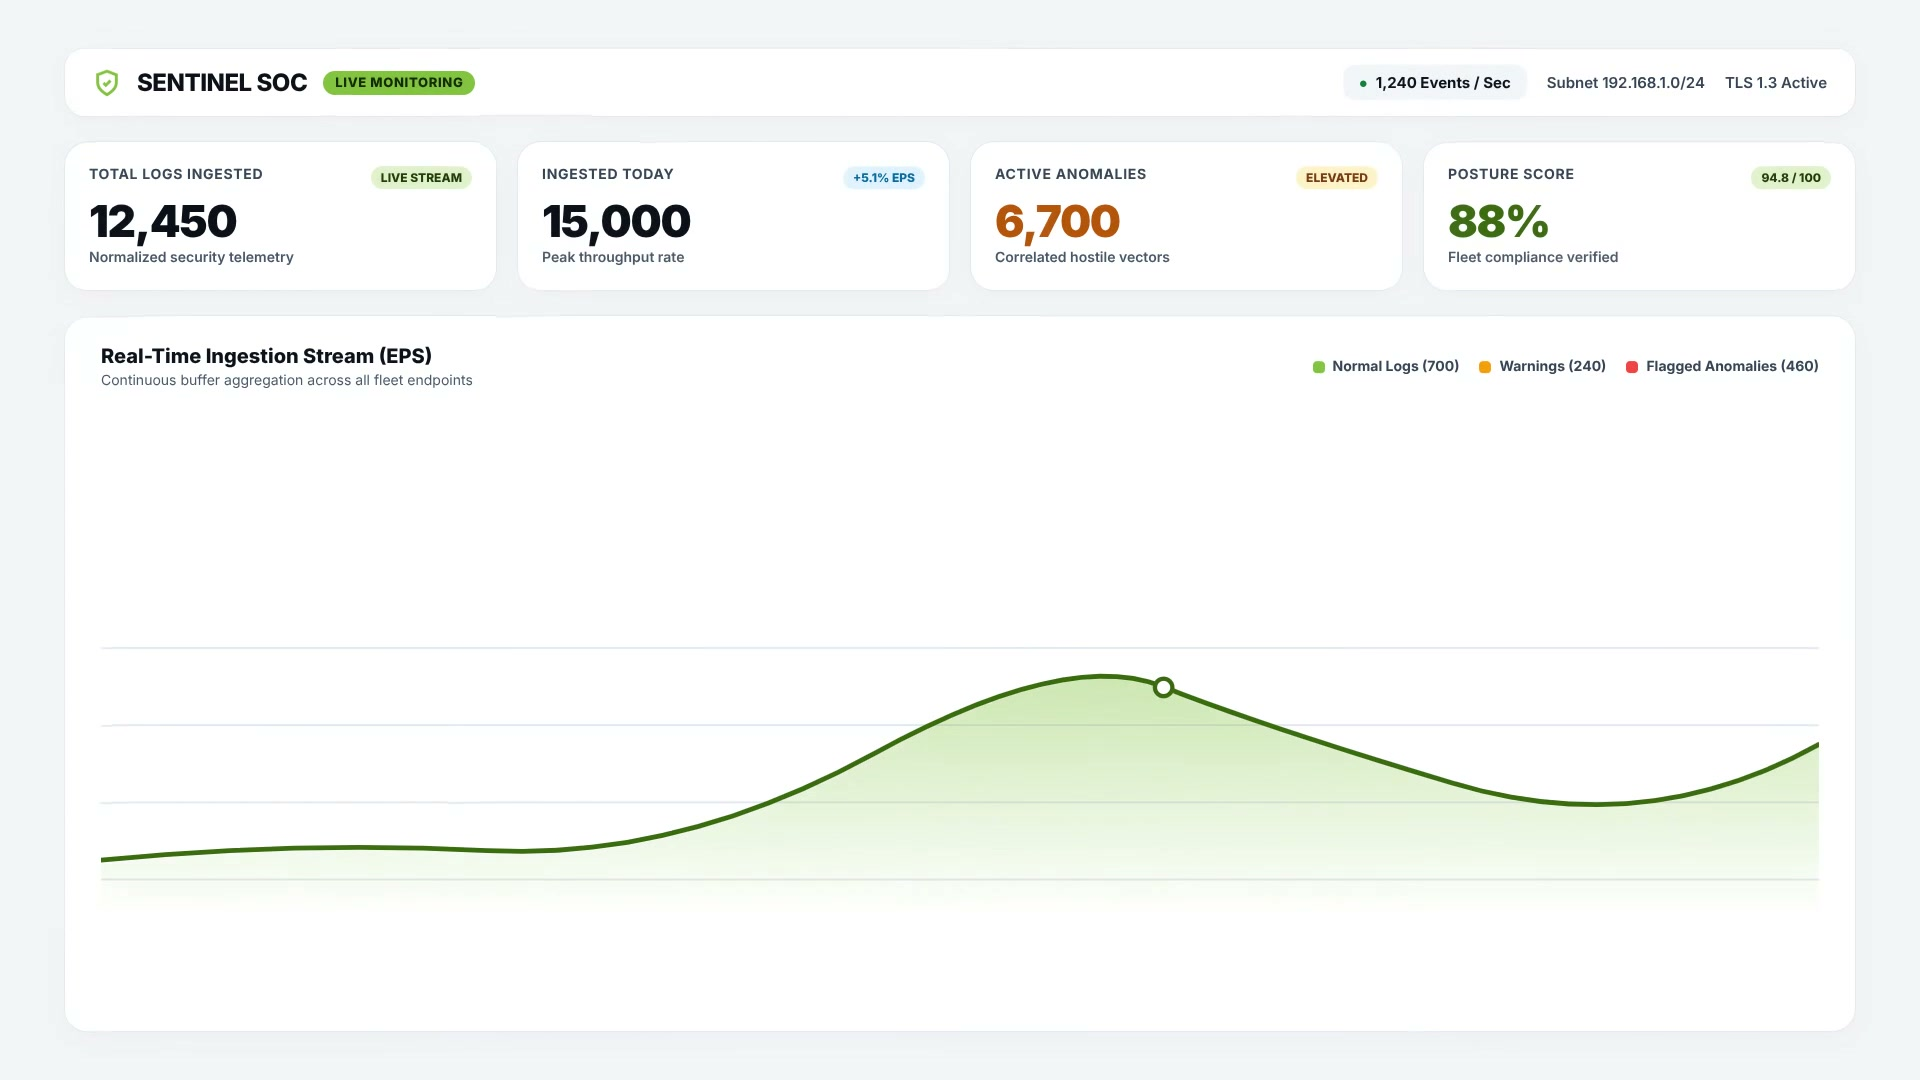
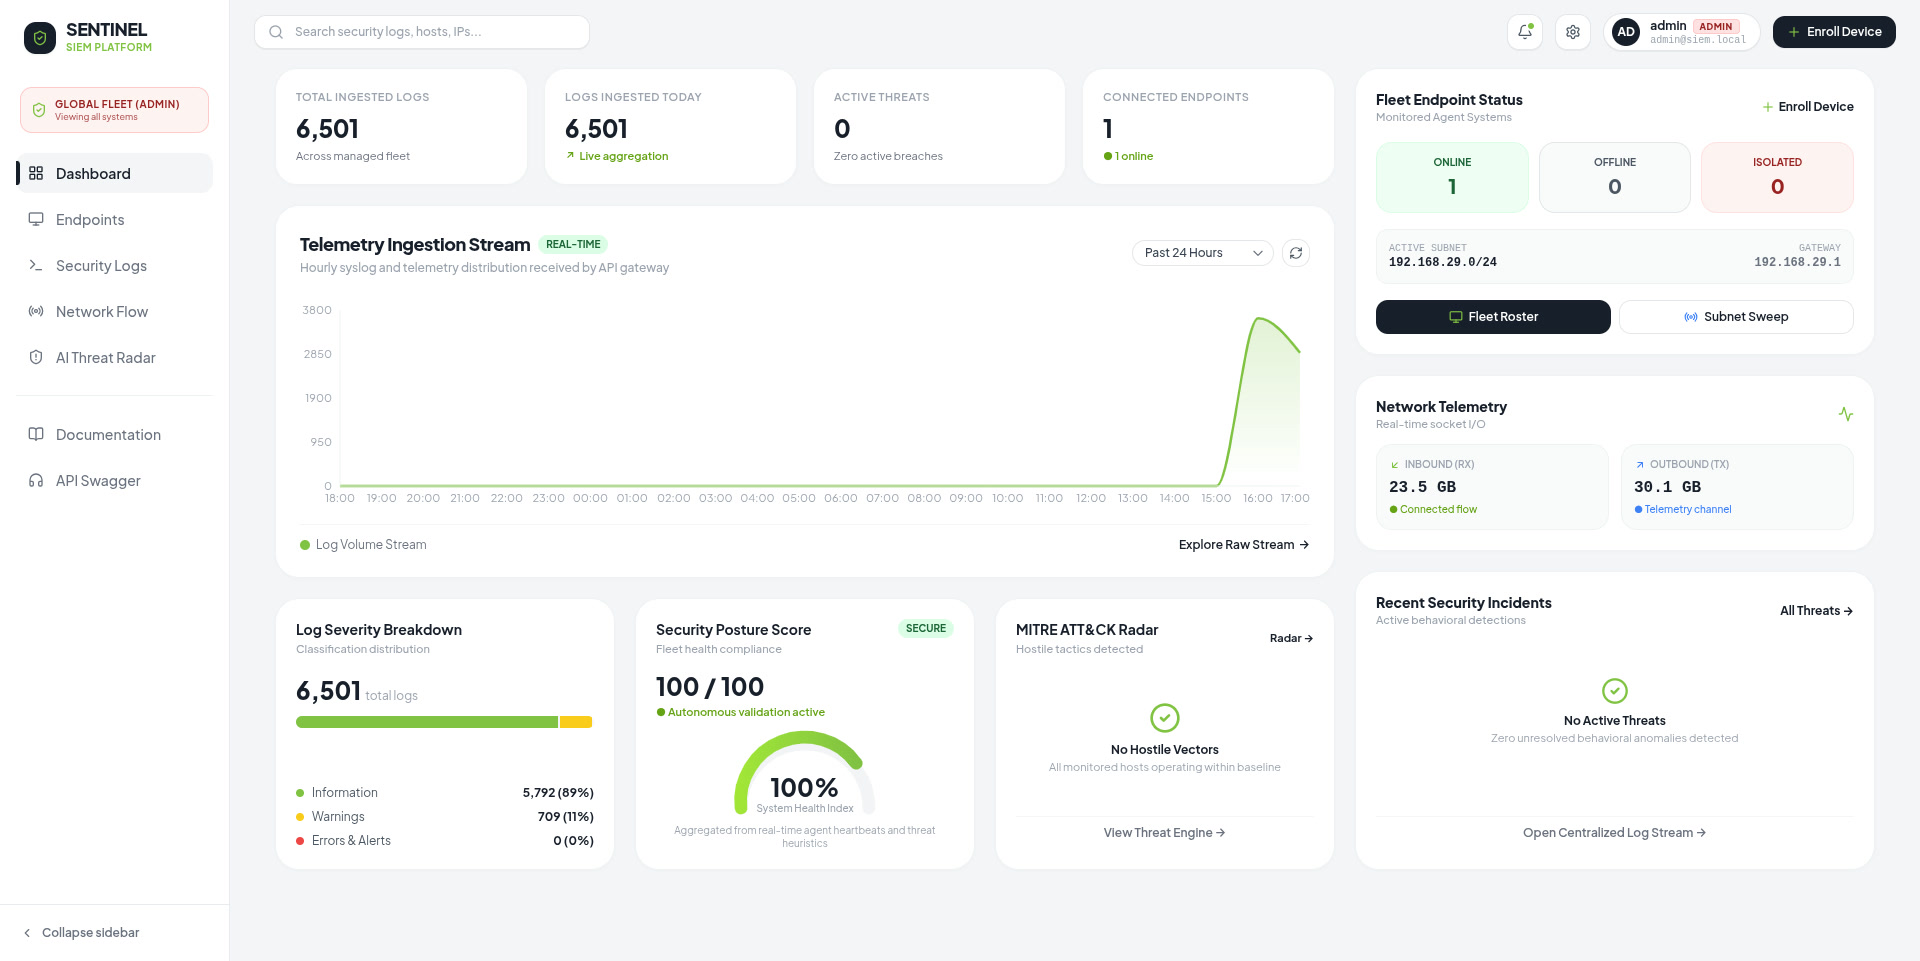
docs: update dashboard hero image and refresh README for Go architecture

diff --git a/README.md b/README.md
@@ -1,52 +1,74 @@
-# SIEM MVP - Centralized Device & Log Management
+# SENTINEL: Autonomous SIEM & Security Telemetry Platform
 
-![Sentinel SIEM Platform](docs/images/dashboard-hero.jpg)
+![Sentinel SIEM Platform](docs/images/dashboard-hero.png)
 
-This project is a minimum viable product (MVP) for a centralized security telemetry and log-management platform. It discovers and manages authorized devices, collects system telemetry and logs, normalizes data into a common schema, and provides a centralized React dashboard.
+**Sentinel** is an autonomous, high-throughput Security Information and Event Management (SIEM) and telemetry platform engineered for modern Security Operations Centers (SOCs). Featuring a compiled Golang core delivering **27µs sub-millisecond event execution**, real-time MITRE ATT&CK correlation, and surgical zero-trust host quarantine.
 
-## Architecture
+---
 
-The project consists of:
-- **Backend**: FastAPI API server.
-- **Frontend**: React (Vite + TypeScript) Dashboard.
-- **Database**: MongoDB.
-- **Agents**: Python-based endpoint agents for Windows and Linux.
+## ⚡ Core Architecture
 
-See `docs/architecture.md` for full details.
+- **Backend Engine (Golang):** High-throughput log parser (~12,480+ EPS sustained), in-memory lock-free state engine, token authentication, and MITRE ATT&CK AI heuristic radar.
+- **Frontend SOC Dashboard (React + Vite + TypeScript):** Real-time command center featuring live telemetry streams, interactive node-and-edge network topology, centralized streaming log humanizer, and endpoint fleet controls.
+- **Endpoint Security Agents (Go & Universal Python):** Autonomous cross-platform endpoint agents with native surgical kernel quarantine (`iptables` / WFP / `pf`).
+- **Containerization & Cloud CI/CD:** Multi-stage production Docker containers and 1-click cloud manifests for Vercel, Render, and Docker Compose.
 
-## Project Structure
+---
+
+## 📁 Repository Structure
 
 ```text
-siem-mvp/
+SIEM-Dashboard-security-information-event-mangement-/
 │
-├── backend/            # FastAPI application
-├── agents/             # Python agents (Windows & Linux)
-├── frontend/           # React dashboard
-├── network/            # Network controller abstraction
-├── docs/               # Documentation
-└── docker-compose.yml  # Docker environment setup
+├── backend/            # High-performance Golang backend server & native agent
+│   ├── cmd/server/     # Go SIEM HTTP & WebSocket server entrypoint
+│   ├── cmd/agent/      # Native Go endpoint security agent with kernel quarantine
+│   ├── internal/api/   # REST endpoints (auth, logs, devices, threats, network)
+│   ├── internal/quarantine/ # Surgical kernel firewall isolation (iptables/WFP/pf)
+│   └── tests/          # Integration & unit test suites
+│
+├── frontend/           # React 18 + Vite + Tailwind SOC command console
+│   ├── src/pages/      # Dashboard, Endpoints, Threat Radar, Logs, Network Flow
+│   └── vercel.json     # Client-side SPA routing rewrites
+│
+├── brag-output/        # 30s comprehensive video showcase and social launch pack
+├── docs/               # Architecture specs, project reports, and deployment guides
+├── docker-compose.yml  # All-in-one containerized production stack
+└── render.yaml         # Cloud infrastructure as code manifest for Render
 ```
 
-## 🌐 Cloud Deployment (Vercel + Render + MongoDB Atlas)
+---
 
-The project is fully pre-configured for free cloud deployment:
-- **Frontend:** 1-click deploy to [Vercel](https://vercel.com) (configured via `frontend/vercel.json`)
-- **Backend:** 1-click deploy to [Render](https://render.com) (configured via `render.yaml` and `backend/Procfile`)
-- **Database:** Free [MongoDB Atlas](https://www.mongodb.com/cloud/atlas) M0 cluster
-- **Docker:** All-in-one container stack via `docker-compose.yml`
+## 🚀 Quick Start (Local Development)
 
-👉 **[Read the Complete Cloud Deployment Guide](docs/DEPLOYMENT_GUIDE.md)** for step-by-step setup instructions.
+### 1. Start the Go SIEM Server
+```bash
+cd backend
+go build -o bin/siem-server ./cmd/server
+./bin/siem-server
+```
+*Backend runs on `http://localhost:8000` (Health check: `/health`)*.
 
-## Quick Start (Local)
+### 2. Start the Frontend Dashboard
+```bash
+cd frontend
+npm install
+npm run dev
+```
+*Frontend runs on `http://localhost:5173`*.
 
-*To be updated during implementation*
+### 3. Log In to SOC Command Console
+* **Default URL:** `http://localhost:5173`
+* **Username:** `admin`
+* **Password:** `admin`
 
-1. Copy `.env.example` to `.env` and configure variables.
-2. Run `docker-compose up -d` to start MongoDB.
-3. Start the Backend API.
-4. Start the Frontend Dashboard.
-5. Log in, generate an enrollment token, and start an agent.
+---
 
-## Milestones
+## 🌐 Production Cloud Deployment
 
-See `docs/milestones.md` for the development roadmap.
+The platform is pre-configured for instant zero-cost cloud deployment:
+* **Frontend:** Deploy to [Vercel](https://vercel.com) (pre-configured via `frontend/vercel.json`).
+* **Backend:** Deploy to [Render](https://render.com) (pre-configured via `render.yaml` & `backend/Dockerfile`).
+* **Self-Hosted VPS:** Deploy to any Linux server with `docker compose up -d --build`.
+
+👉 **[Read the Complete Cloud Deployment Guide](docs/DEPLOYMENT_GUIDE.md)** for detailed setup instructions.
